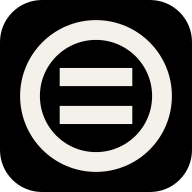
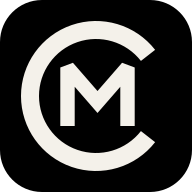
brand: apply MC monogram symbol

diff --git a/src/components/brand/logo.tsx b/src/components/brand/logo.tsx
@@ -1,10 +1,9 @@
 import { cn } from "@/lib/cn";
 
 export function LogoMark({ className }: { className?: string }) {
-  return <svg viewBox="10 10 44 44" className={className} fill="currentColor" aria-hidden="true">
-    <circle cx="32" cy="32" r="19" fill="none" stroke="currentColor" strokeWidth="5" />
-    <rect x="20" y="24.5" width="24" height="5" />
-    <rect x="20" y="34.5" width="24" height="5" />
+  return <svg viewBox="7 7 45 50" className={className} fill="none" stroke="currentColor" strokeMiterlimit={2} aria-hidden="true">
+    <path d="M49.34 18.46A22 22 0 1 0 49.34 45.54" strokeWidth={6} />
+    <path d="M22.5 42V22.5L32.5 34L42.5 22.5V42" strokeWidth={4.8} />
   </svg>;
 }
 
@@ -38,8 +37,8 @@ export function Wordmark({ className }: { className?: string }) {
 }
 
 export function Logo({ className, compacto }: { className?: string; compacto?: boolean }) {
-  return <span className={cn("inline-flex shrink-0 items-center gap-6 text-[var(--text)]", className)}>
-    <LogoMark className={compacto ? "h-7 w-auto shrink-0" : "h-7 w-auto shrink-0 lg:h-8"} />
+  return <span className={cn("inline-flex shrink-0 items-center gap-3 text-[var(--text)]", className)}>
+    <LogoMark className={compacto ? "h-5 w-auto shrink-0" : "h-5 w-auto shrink-0 sm:h-6"} />
     {compacto ? <WordmarkCurto className="h-5 w-auto shrink-0" /> : <Wordmark className="h-5 w-auto shrink-0 sm:h-6" />}
   </span>;
 }
